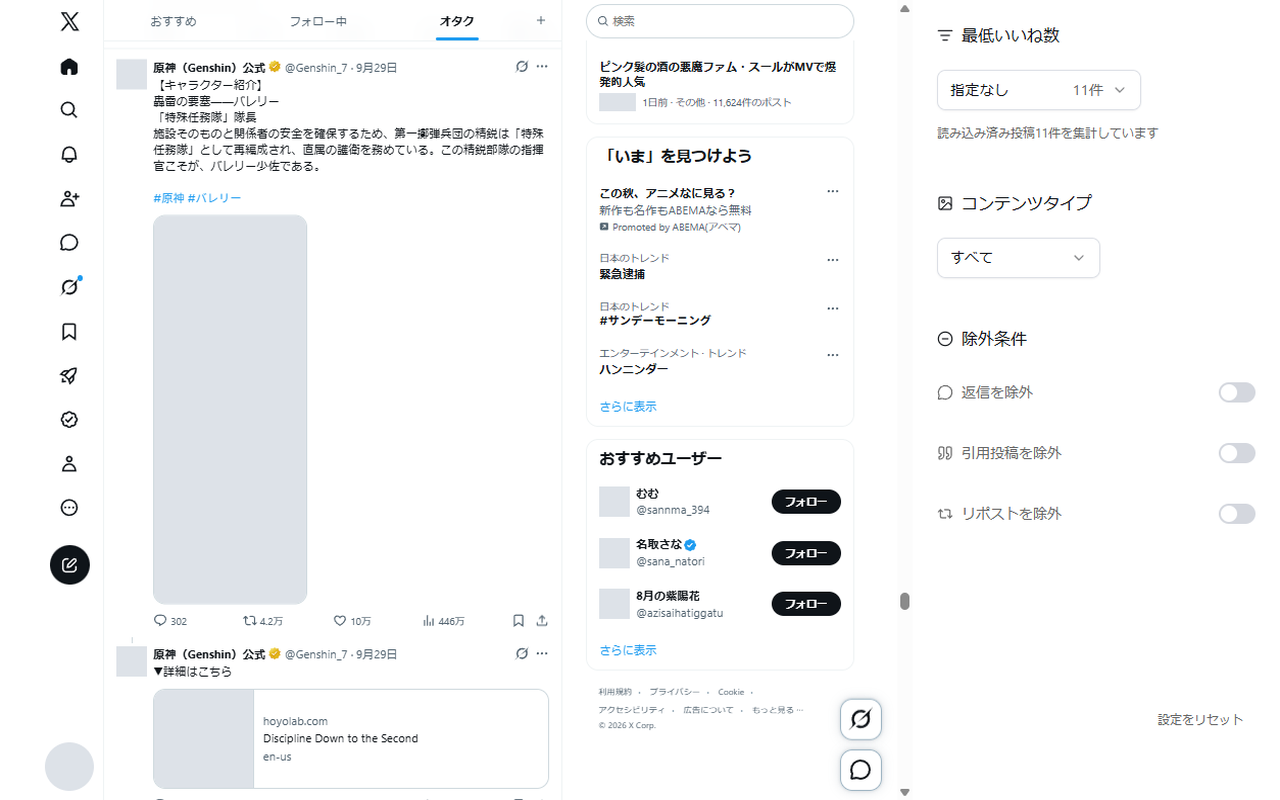
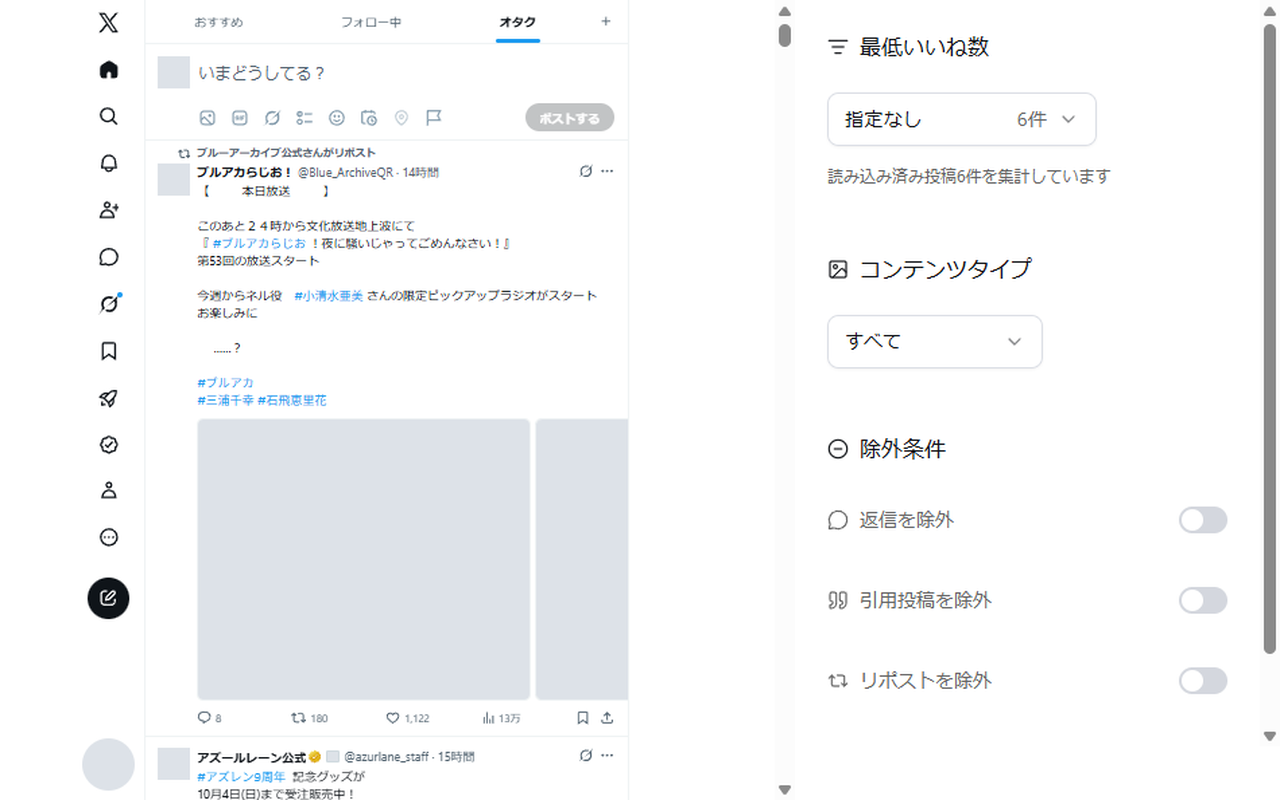
Xの掲載画像から右サイドカラムを除く

diff --git a/store-assets/screenshots/README.md b/store-assets/screenshots/README.md
@@ -9,7 +9,7 @@
 | X の固定リスト「オタク」 | [指定なし](sift-x-before-ja.png) | [最低いいね数10万](sift-x-ja.png) | 10万いいね未満の投稿が消え、10万・13万いいねの投稿が残る |
 | YouTube の崩壊：スターレイル公式チャンネル | [指定なし](sift-youtube-before-ja.png) | [最低再生回数100万](sift-youtube-ja.png) | 100万回未満の動画が消え、113万・171万・104万・179万回の動画が残る |
 
-X はページを75%表示にして2投稿の名前と本文を収めた。YouTube はサイト側の「新しい順・人気の動画・古い順」も収めた。`https://www.youtube.com/@Houkaistarrail_jp/videos` を使用している。
+X は撮影ウィンドウを幅992・高さ734ピクセルにし、ページを60%表示にして2投稿の名前と本文を収めた。右サイドカラムはサイトのレスポンシブ表示で出なくなる幅にした。YouTube はサイト側の「新しい順・人気の動画・古い順」も収めた。`https://www.youtube.com/@Houkaistarrail_jp/videos` を使用している。
 
 前後で同じリスト・チャンネルを使い、条件による非表示理由も実ページで確認した。数値は撮影時点のもの。読み込み済み件数はスクロールに伴って増えるため、前後の件数だけから除外数を判断しない。
 
